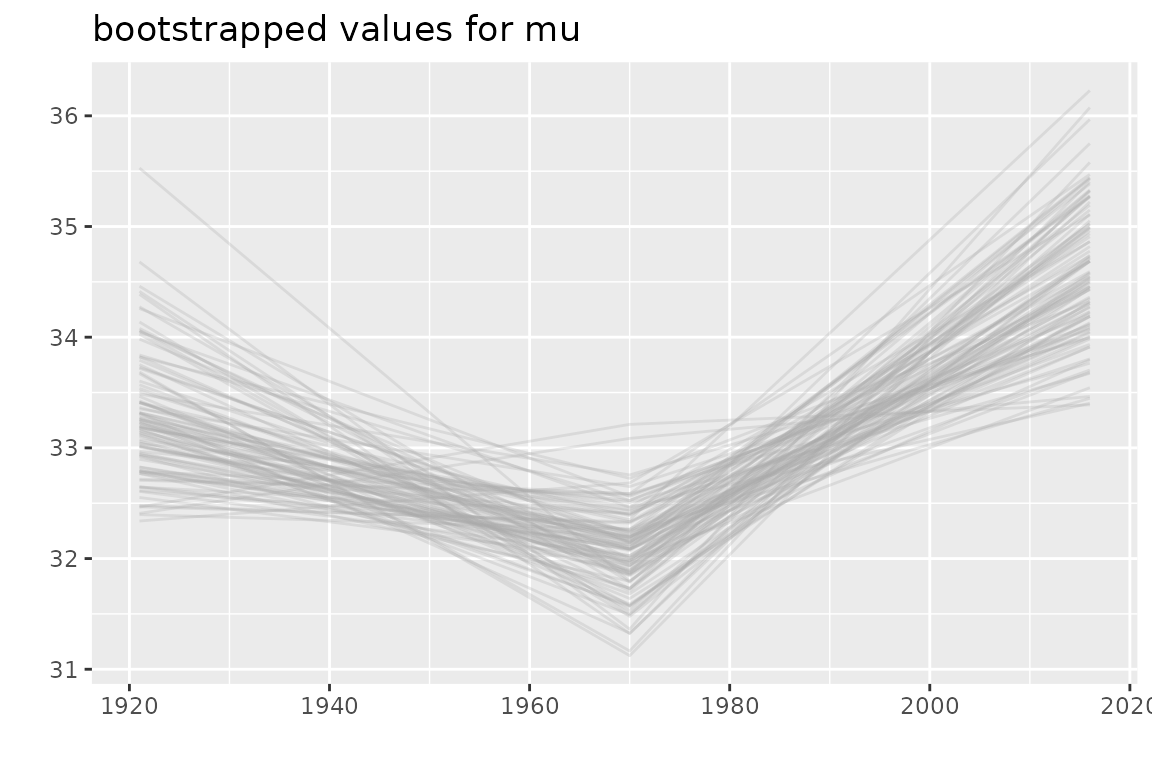
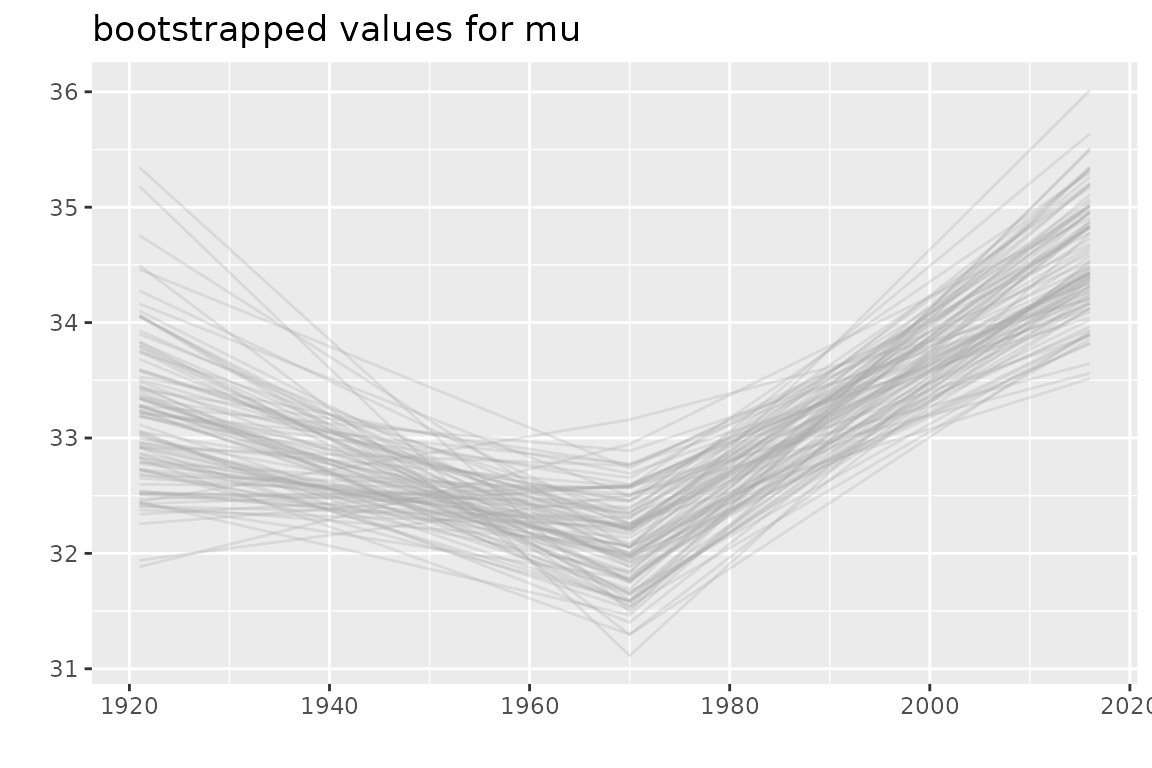
Deploying to gh-pages from @ IRSN/NSGEV@1a721492bddb418bc7a8e259f9bf72ea37c547e8 🚀

diff --git a/articles/IntroTVGEV.html b/articles/IntroTVGEV.html
@@ -884,10 +884,10 @@ bootstrapped parameters are in fact stored as the rows of the
 <pre><code><span><span class="co">## [1] "estimate"  "negLogLik" "R"         "optim"     "type"</span></span></code></pre>
 <div class="sourceCode" id="cb62"><pre class="downlit sourceCode r">
 <code class="sourceCode R"><span><span class="fu"><a href="https://rdrr.io/r/utils/head.html" class="external-link">head</a></span><span class="op">(</span><span class="va">myBoot</span><span class="op">$</span><span class="va">estimate</span>, n <span class="op">=</span> <span class="fl">3</span><span class="op">)</span></span></code></pre></div>
-<pre><code><span><span class="co">##          mu_0        mu_t1 mu_t1_1970  sigma_0       xi_0</span></span>
-<span><span class="co">## [1,] 31.89402 -0.027274874 0.08798493 1.685288 -0.1862281</span></span>
-<span><span class="co">## [2,] 32.21188 -0.030975053 0.07093170 1.975950 -0.3052552</span></span>
-<span><span class="co">## [3,] 32.57234 -0.002754846 0.03550153 1.675768 -0.1605469</span></span></code></pre>
+<pre><code><span><span class="co">##          mu_0       mu_t1 mu_t1_1970  sigma_0        xi_0</span></span>
+<span><span class="co">## [1,] 32.65493 -0.01137076 0.05752407 1.553860 -0.05359624</span></span>
+<span><span class="co">## [2,] 31.54126 -0.05129885 0.13726116 1.939031 -0.10873876</span></span>
+<span><span class="co">## [3,] 31.58853 -0.02334306 0.08278616 1.586839 -0.11637865</span></span></code></pre>
 <p>Note that the default number of replicates <code>R</code> is very
 small and has been set for a purely illustrative use. A well-accepted
 choice <span class="math inline">\(\geqslant 3000\)</span>.</p>
@@ -1086,7 +1086,7 @@ retrieved if needed by first using <code>estim = "none"</code>.</p>
 <div class="sourceCode" id="cb77"><pre class="downlit sourceCode r">
 <code class="sourceCode R"><span><span class="fu"><a href="https://rdrr.io/r/stats/coef.html" class="external-link">coef</a></span><span class="op">(</span><span class="va">fitNBreak2</span><span class="op">)</span></span></code></pre></div>
 <pre><code><span><span class="co">##        mu_0       mu_t1  mu_t1_1970     sigma_0        xi_0 </span></span>
-<span><span class="co">## 32.02318421 -0.02420595  0.07812270  1.72977933 -0.15000000</span></span></code></pre>
+<span><span class="co">## 32.02318431 -0.02420592  0.07812269  1.72977917 -0.15000000</span></span></code></pre>
 <p>The GEV shape parameter <span class="math inline">\(\xi\)</span> is
 usually taken as constant, not time-varying; inasmuch the log-likelihood
 is <span class="math inline">\(\infty\)</span> when <span class="math inline">\(\xi &lt; -1\)</span>, a lower bound <span class="math inline">\(\psi^{\text{L}}_i &gt; -1\)</span> should normally

diff --git a/reference/transFormula.html b/reference/transFormula.html
@@ -111,7 +111,7 @@ attribute.</p>
 <span class="r-out co"><span class="r-pr">#&gt;</span> ~mu_0 + mu_time * time</span>
 <span class="r-out co"><span class="r-pr">#&gt;</span> attr(,"parNames")</span>
 <span class="r-out co"><span class="r-pr">#&gt;</span> [1] "mu_0"    "mu_time"</span>
-<span class="r-out co"><span class="r-pr">#&gt;</span> &lt;environment: 0x56015b27b8a8&gt;</span>
+<span class="r-out co"><span class="r-pr">#&gt;</span> &lt;environment: 0x56506565ffc0&gt;</span>
 <span class="r-in"><span></span></span>
 </code></pre></div>
     </div>
